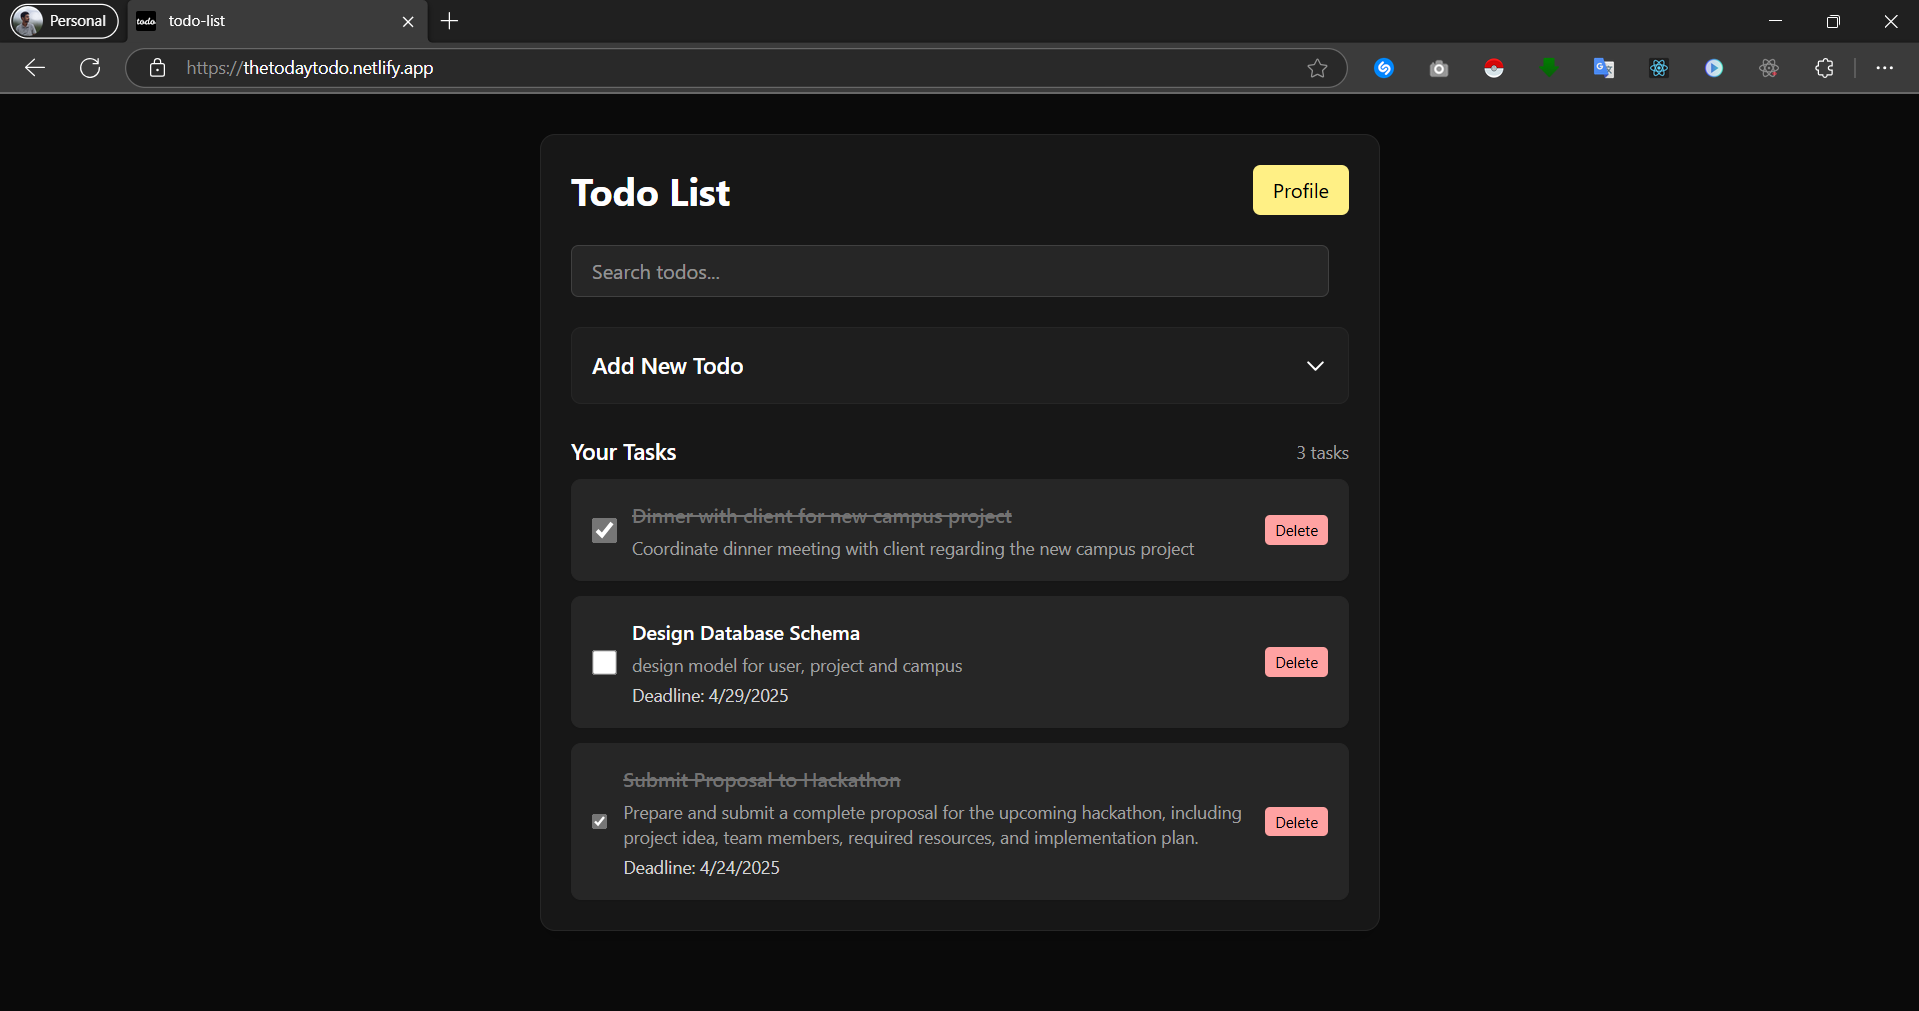
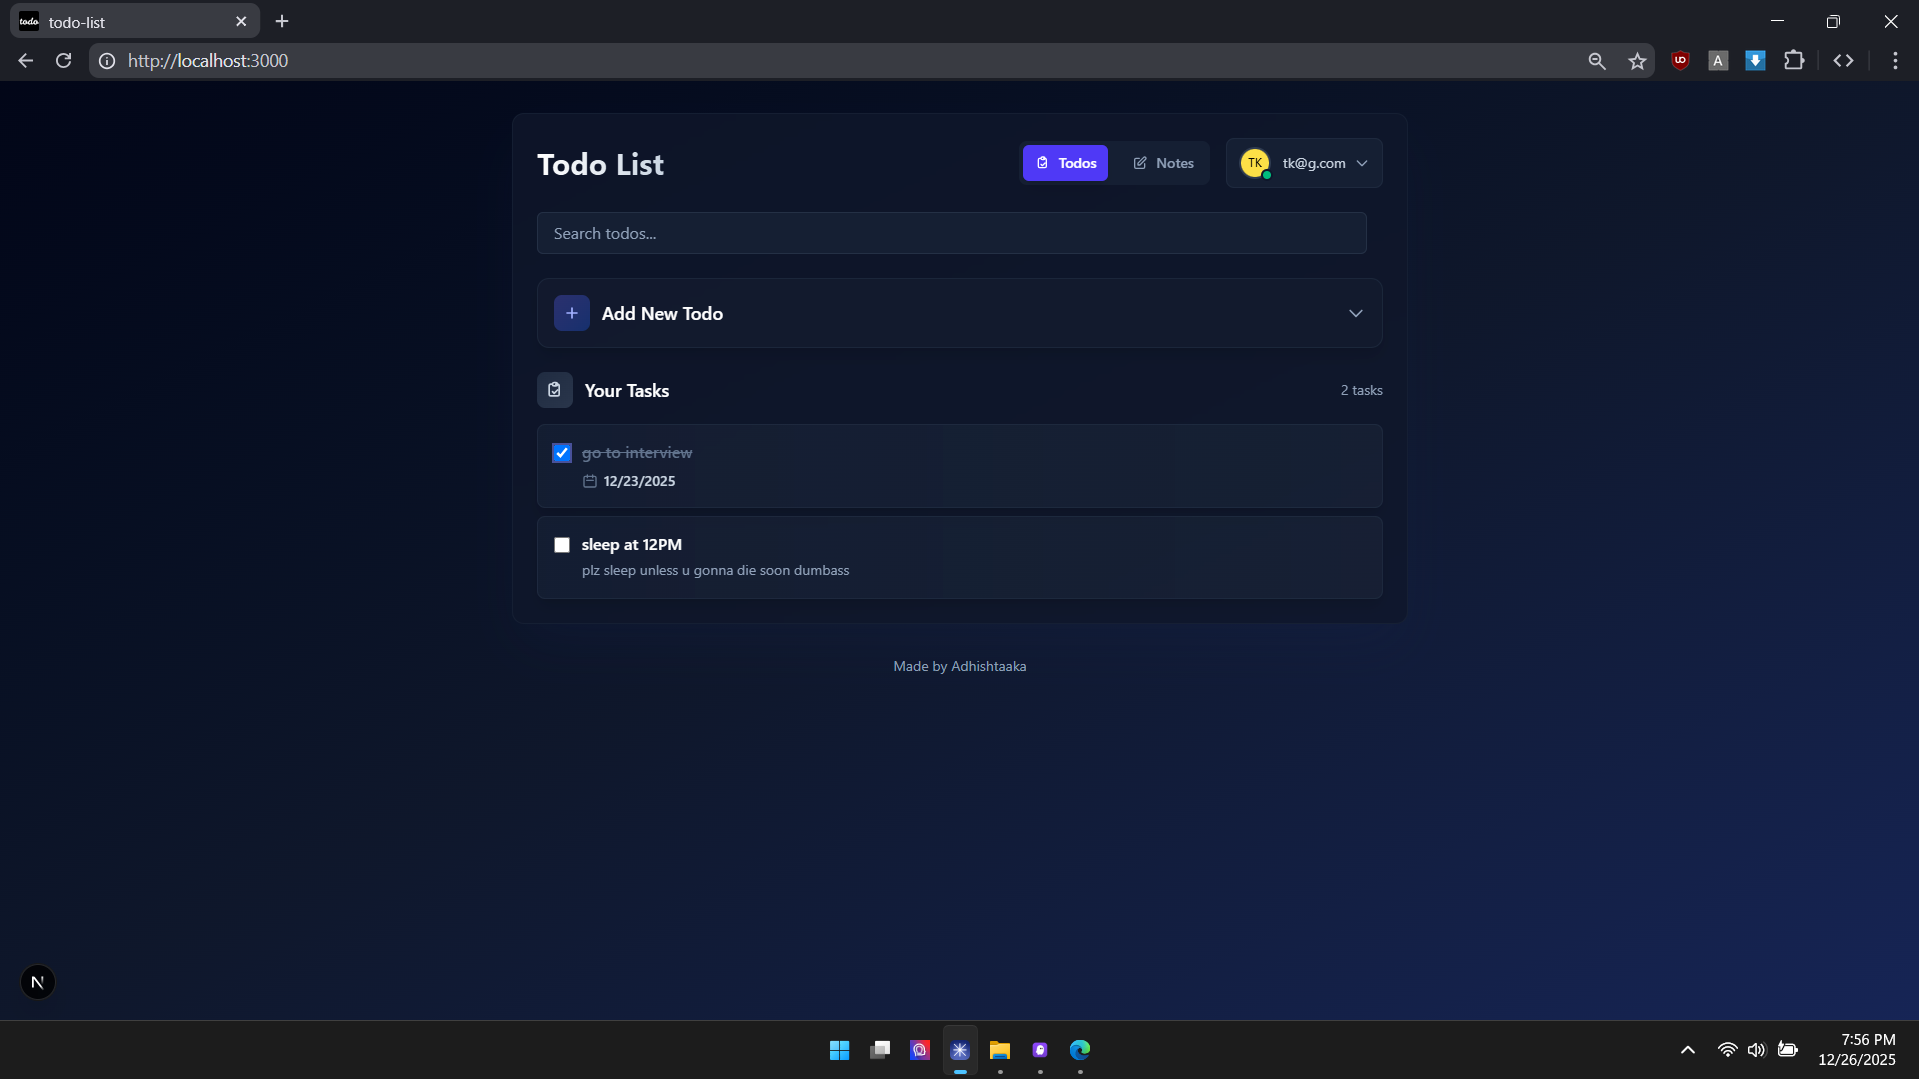
updated readme.md

diff --git a/README.md b/README.md
@@ -1,35 +1,89 @@
-# todo-app
+# Todo & Notes App
 
-A simple Todo system built with **Next.js**, **PostgreSQL**, **Flutter**, and **Prisma**, hosted on **Netlify**. This project demonstrates core backend and frontend concepts using **Next.js API routes**, **JWT authentication**, and shared access for both web and mobile clients..
+A comprehensive productivity application built with **Next.js**, **PostgreSQL**, **Flutter**, and **Prisma**, hosted on **Netlify**. This project demonstrates modern full-stack development with **Next.js API routes**, **JWT authentication**, **Markdown support**, and cross-platform access for both web and mobile clients.
 
 <img src="screenshot/a1.png" alt="TodoApp View" style="width: 700px;" />
 
-
 ## Features
 
-- Todo list management (Add, Update, Delete,Search)
-- JWT-based authentication (no NextAuth)
-- Flutter app access via API
-- Uses Prisma ORM for PostgreSQL
+### Todo Management
+-  Create, update, delete, and search todos
+-  Deadline tracking with overdue indicators
+-  Inline editing with real-time updates
+-  Loading animations for better UX
+-  Responsive design for all devices
+
+### Notes System
+-  Rich markdown editor with live preview
+-  Syntax highlighting and formatting
+-  Expandable/collapsible note cards
+-  Full-text search across all notes
+-  GitHub Flavored Markdown (GFM) support
 
 ## Local Development
 
 ```bash
-# Clone the repo
+# Clone the repository
 git clone https://github.com/Adhishtanaka/todo-app.git
+cd todo-app
 
 # Install dependencies
 npm install
 
 # Set up environment variables
-cp  .env
+cp .env.example .env
+# Edit .env with your database credentials and JWT secret
 
-# Prisma Setup
+# Database setup
 npx prisma migrate dev
 npx prisma generate
 
 # Run the development server
 npm run dev
+```
+
+Open [http://localhost:3000](http://localhost:3000) to view the application.
+
+## Environment Variables
+
+Create a `.env` file in the root directory:
+
+```env
+DATABASE_URL="postgresql://username:password@localhost:5432/todoapp"
+JWT_SECRET="your-super-secret-jwt-key"
+NEXTAUTH_URL="http://localhost:3000"
+```
+
+## Technology Stack
+
+- **Frontend**: Next.js 14, React 18, TypeScript
+- **Styling**: Tailwind CSS, Headless UI
+- **Backend**: Next.js API Routes, JWT Authentication
+- **Database**: PostgreSQL with Prisma ORM
+- **Markdown**: ReactMarkdown with GitHub Flavored Markdown
+- **Mobile**: Flutter (separate repository)
+- **Deployment**: Netlify
+
+## Project Structure
+
+```
+├── app/
+│   ├── api/           # API routes
+│   │   ├── auth/      # Authentication endpoints
+│   │   ├── todos/     # Todo CRUD operations
+│   │   └── notes/     # Notes CRUD operations
+│   ├── auth/          # Auth pages (signin/signup)
+│   └── page.tsx       # Main application
+├── components/        # React components
+│   ├── AddNote.tsx    # Markdown note editor
+│   ├── AddTodo.tsx    # Todo creation form
+│   ├── NoteItem.tsx   # Note display with markdown
+│   ├── TodoItem.tsx   # Todo item with actions
+│   ├── ProfileButton.tsx # User profile dropdown
+├── prisma/
+│   ├── schema.prisma  # Database schema
+│   └── migrations/    # Database migrations
+└── public/           # Static assets
 ```
 
 ---
@@ -43,7 +97,7 @@ npm run dev
 
 ## License
 
-This extension is open source and available under the [MIT License](LICENSE).
+This Webapplication is open source and available under the [MIT License](LICENSE).
 
 ## Contact
 
